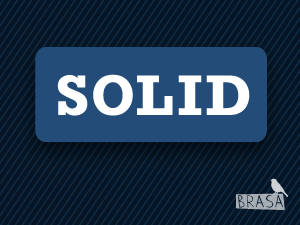
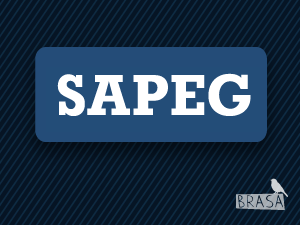
transformado o tema em tema da sapeg

Changed region(s): [[0.18, 0.3111, 0.84, 0.5289]]

diff --git a/style.css b/style.css
@@ -1,5 +1,5 @@
 /*
-Theme Name: Solid Theme
+Theme Name: Sapeg Theme - Ex-Solid Theme
 Template: twentyeleven
 Theme URI: http://wordpress.org/extend/themes/twentyeleven
 Author: Brasa Design

diff --git a/functions.php b/functions.php
@@ -9,9 +9,9 @@ function filter_solid( $content ) {
 	$string = array(' Solid ');
 	$string2 = array(' Solid.');
 	$string3 = array(' Solid,');
-	$content = str_ireplace( $string, '<span style=color:#244c78;font-weight:bold;"> Solid </span>', $content );
-	$content = str_ireplace( $string2, '<span style=color:#244c78;font-weight:bold;"> Solid.</span>', $content );
-	$content = str_ireplace( $string3, '<span style=color:#244c78;font-weight:bold;"> Solid,</span>', $content );
+	$content = str_ireplace( $string, '<span style=color:#244c78;font-weight:bold;"> Sapeg </span>', $content );
+	$content = str_ireplace( $string2, '<span style=color:#244c78;font-weight:bold;"> Sapeg.</span>', $content );
+	$content = str_ireplace( $string3, '<span style=color:#244c78;font-weight:bold;"> Sapeg,</span>', $content );
 	return $content;
 }
 
